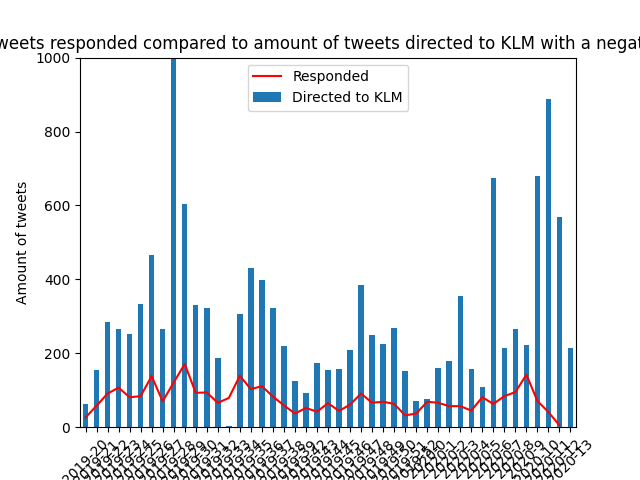
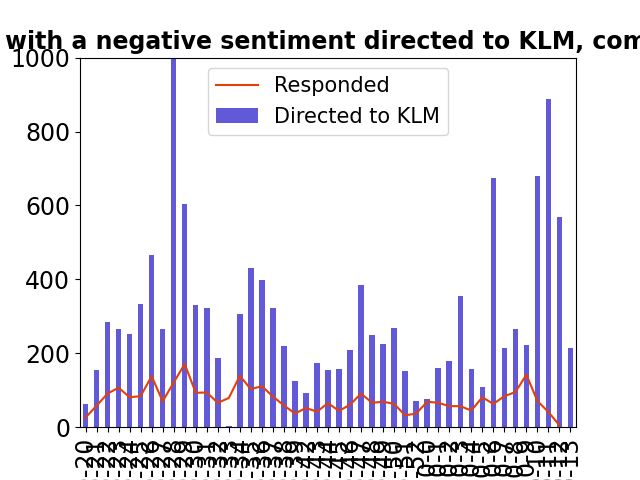
changes plots extra 1 and 3

diff --git a/Code_for_plots/Extra_1.py b/Code_for_plots/Extra_1.py
@@ -38,15 +38,16 @@ def dataframe_for_plot(time:list):
 
 
 def plot_amount_reply(df):
-    ax = df[['week_yr','count']].plot.bar(x = 'week_yr', y = 'count')
-    df['count2'].plot(ax=ax, c='r')
+    ax = df[['week_yr','count']].plot.bar(x = 'week_yr', y = 'count', color = '#6259D8')
+    df['count2'].plot(ax=ax, color = '#E53F08')
     
     ax.set_ylim(0,1000)
-    ax.legend(["Responded", "Directed to KLM"])
-    ax.set_xlabel("Week of the year (year-week)")
-    ax.set_ylabel("Amount of tweets")
-    ax.set_title("Amount of tweets responded compared to amount of tweets directed to KLM with a negative sentiment")
-    plt.xticks(rotation = 45)
+    ax.legend(["Responded", "Directed to KLM"], prop={'size': 15})
+    ax.set_xlabel("Week of the year (year-week)", size = 15, weight = 'bold')
+    ax.set_ylabel("Amount of tweets", size = 15, weight = 'bold')
+    ax.set_title("Amount of tweets with a negative sentiment directed to KLM, compared to reponded", size = 17, weight = 'bold')
+    plt.xticks(rotation = 90, size = 17)
+    plt.yticks(size = 17)
     
     plt.savefig("Plots_for_demo/Extra_1.png")
     plt.close()

diff --git a/Code_for_plots/Extra_3.py b/Code_for_plots/Extra_3.py
@@ -78,15 +78,16 @@ def sentiment_change_per_topic(topic_occurance_dct):
 
     v = np.array(v)
 
-    plt.bar(range(len(c)), v[:,1]/v[:,0]*100)
-    plt.bar(range(len(c)), v[:,2]/v[:,0]*100, bottom=v[:,1]/v[:,0]*100)
-    plt.xticks(range(len(c)), c)
+    plt.bar(range(len(c)), v[:,1]/v[:,0]*100, color = '#6259D8')
+    #plt.bar(range(len(c)), v[:,2]/v[:,0]*100, bottom=v[:,1]/v[:,0]*100)
+    plt.xticks(range(len(c)), c, size = 15)
 
-    plt.title("Improvement of sentiment for frequently adressed topics")
-    plt.xlabel("Topic")
-    plt.ylabel("Percentage of succes (in %)")
-    plt.legend(["negative to positive", "negative to neutral"])
+    plt.title("Improvement of sentiment for frequently adressed topics", size = 15, weight = 'bold')
+    plt.xlabel("Topic", size = 15, weight = 'bold')
+    plt.ylabel("Percentage of succes (in %)", size = 15, weight = 'bold')
+    plt.legend(["negative to positive", "negative to neutral"], prop={'size': 15})
     plt.ylim(0,100)
-    
+    plt.yticks(size = 15)
+
     plt.savefig("Plots_for_demo/Extra_3.png")
     plt.close()
